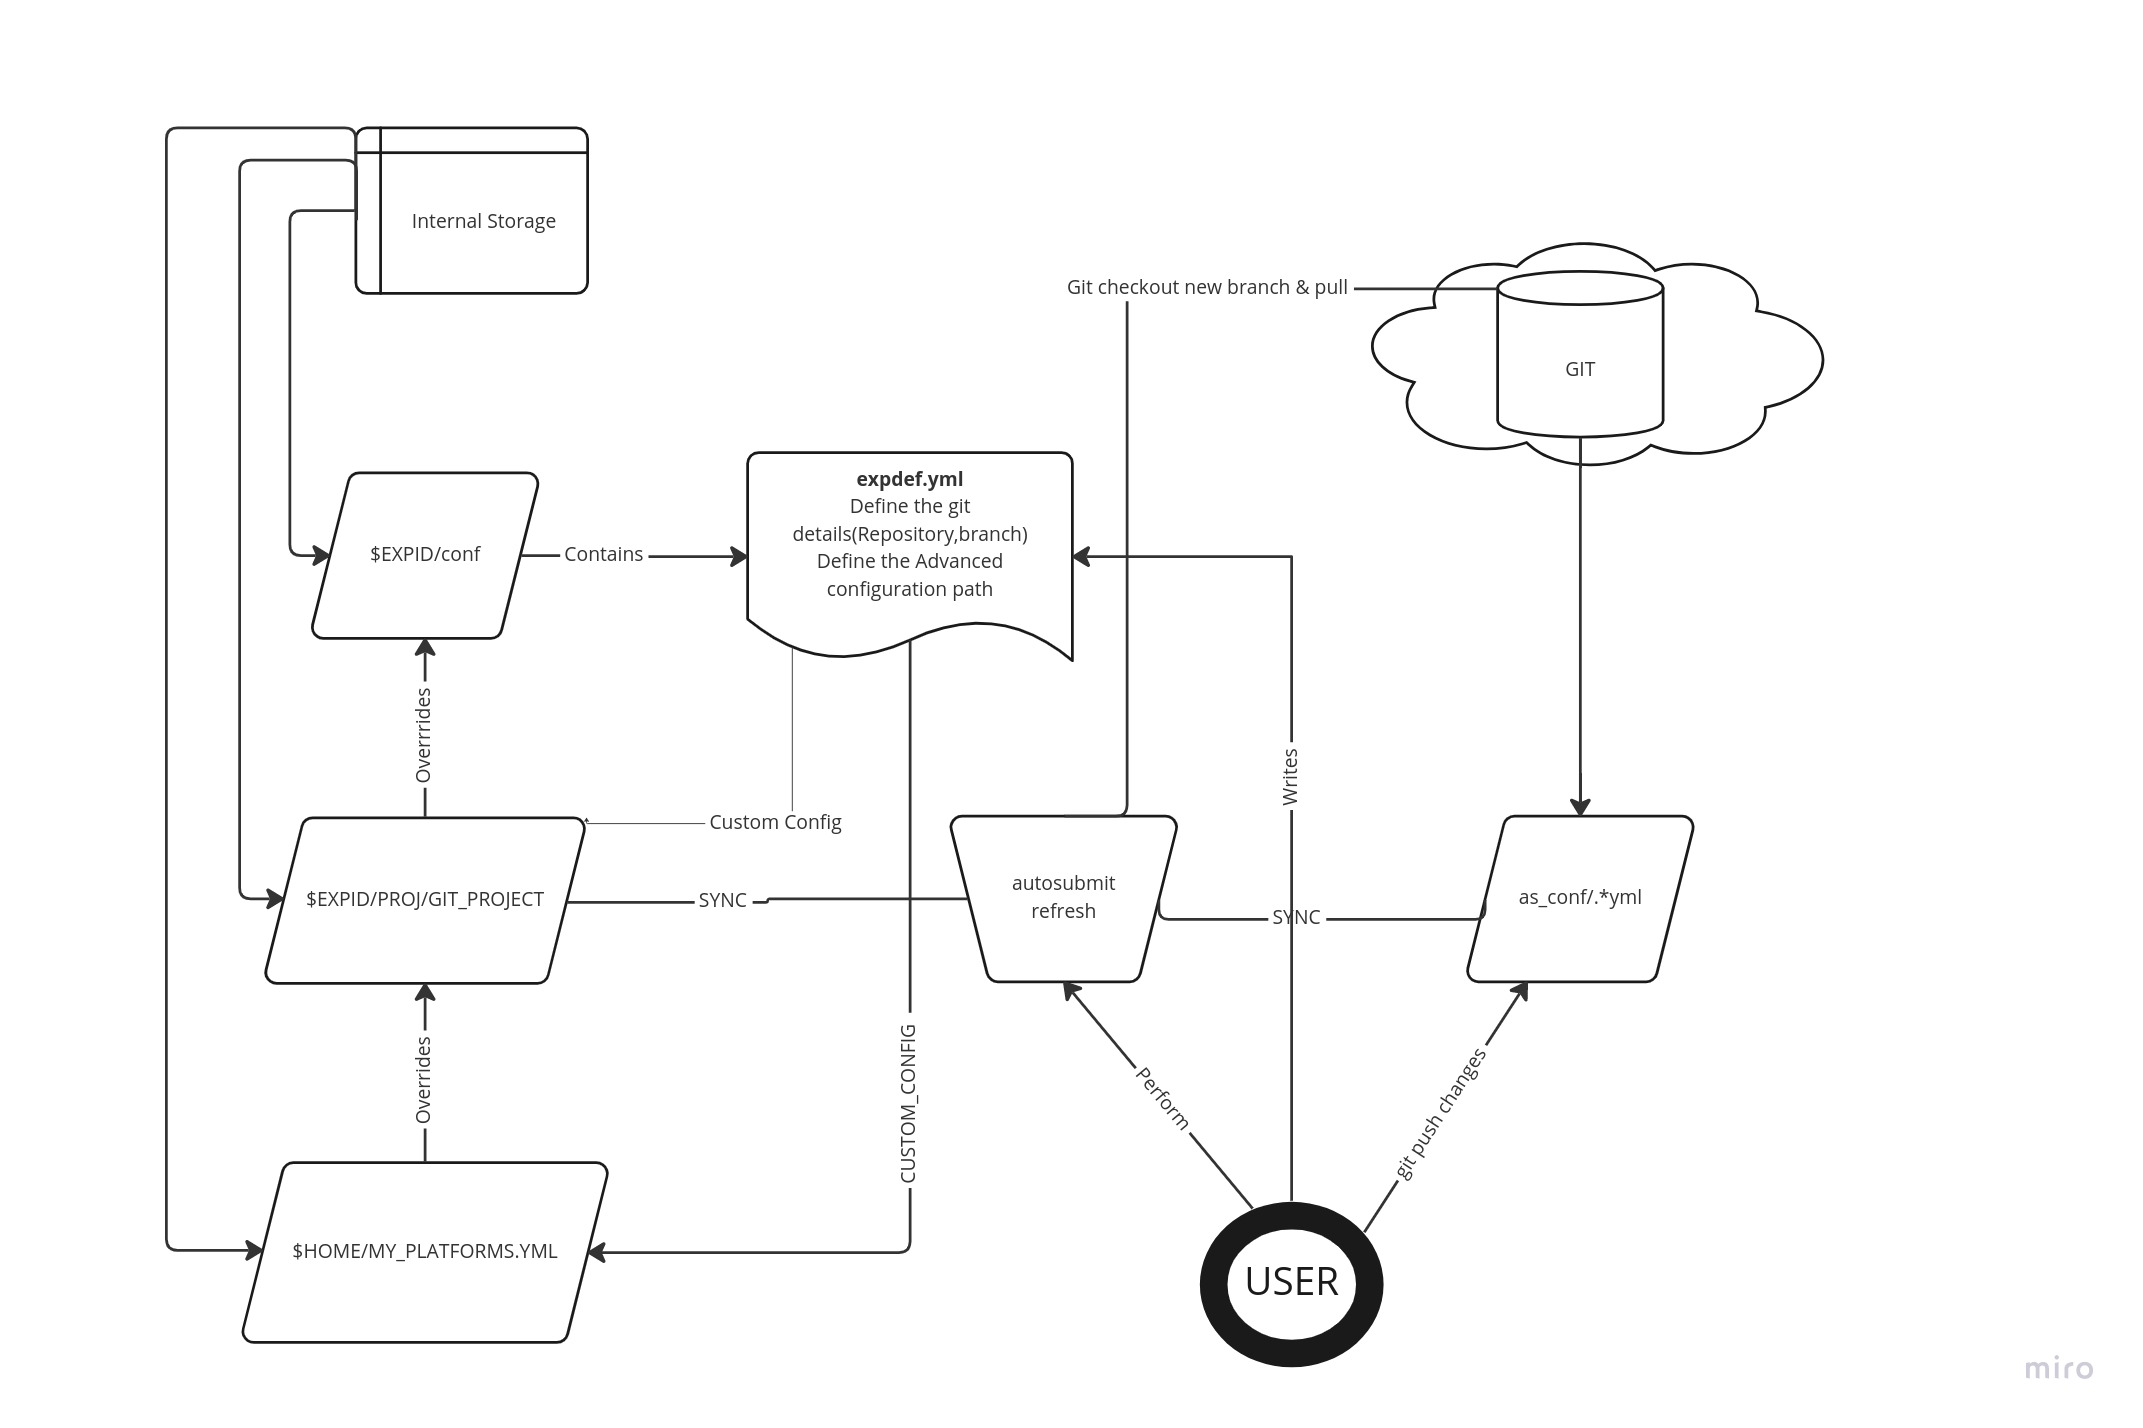
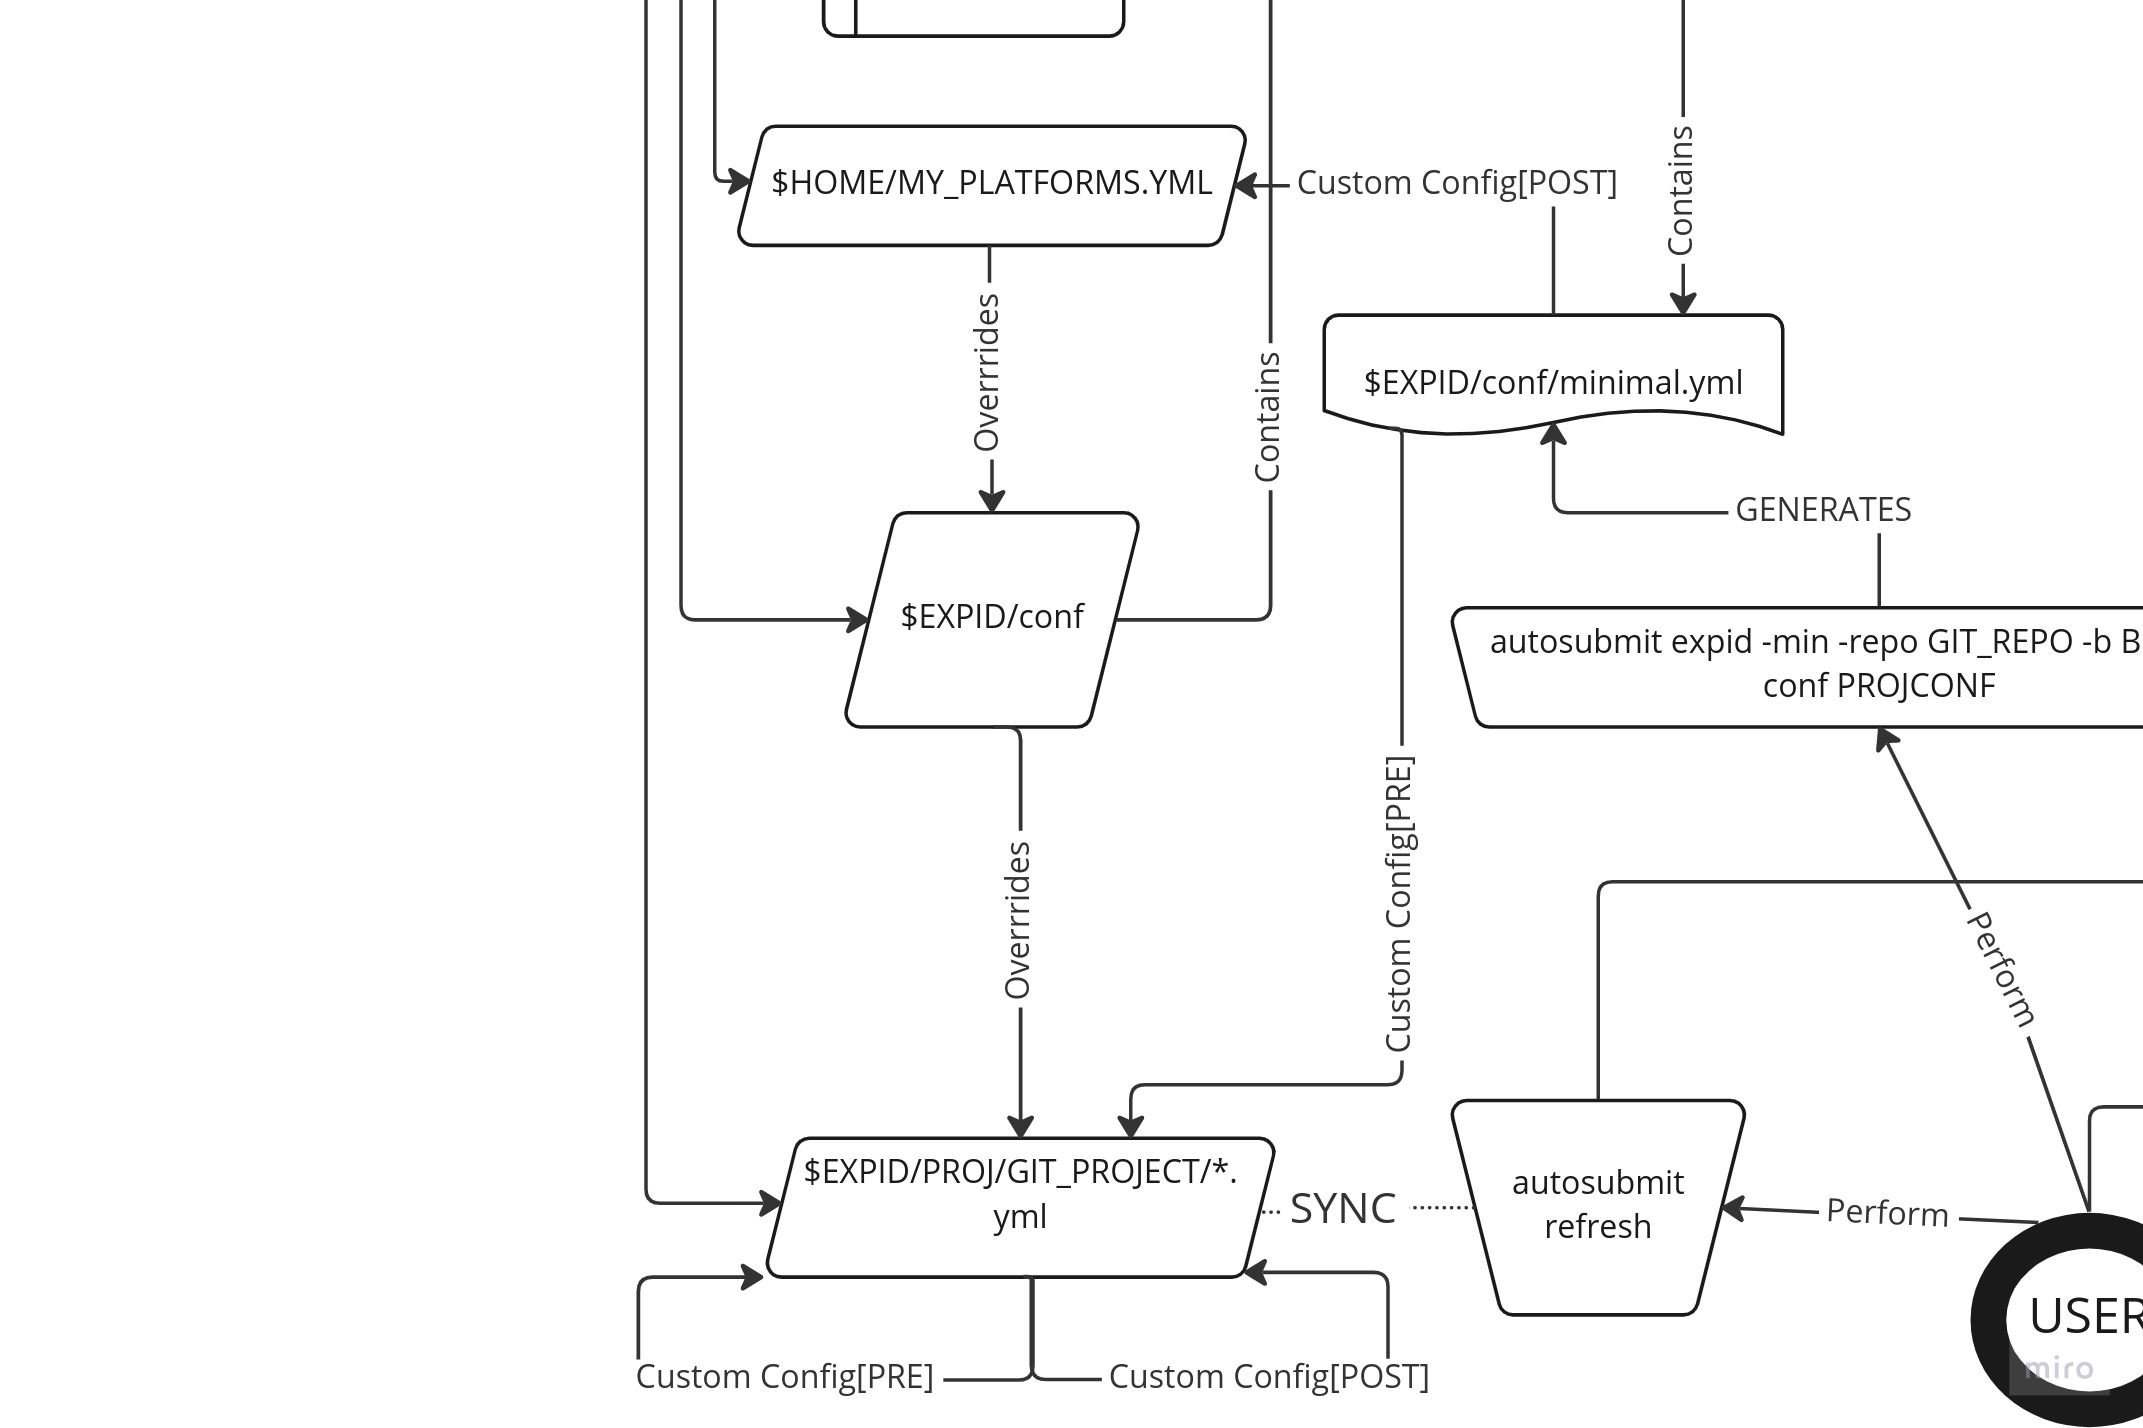
Updated advanced_conf img

diff --git a/autosubmit/autosubmit.py b/autosubmit/autosubmit.py
@@ -1091,7 +1091,7 @@ class Autosubmit:
                     f.write(content)
 
     @staticmethod
-    def expid(description,hpc="", copy_id='', dummy=False,minimal_configuration=False,git_repo="",git_branch="",git_as_conf="",operational=False):
+    def expid(description,hpc="", copy_id='', dummy=False,minimal_configuration=False, git_repo="",git_branch="",git_as_conf="",operational=False):
         """
         Creates a new experiment for given HPC
         description: description of the experiment

diff --git a/docs/source/userguide/create/index.rst b/docs/source/userguide/create/index.rst
@@ -15,7 +15,7 @@ To create a new experiment, just run the command:
 Options:
 ::
 
-    usage: autosubmit expid [-h] [-y COPY | -dm | -min [-repo GIT_PATH ] ] [-p PATH] -H HPC -d DESCRIPTION
+    usage: autosubmit expid [-h] [-y COPY | -dm | -min [ -repo GIT_PATH -b BRANCH -config AS_CONF ] ] [-p PATH] -H HPC -d DESCRIPTION
 
         -h, --help            show this help message and exit
         -y COPY, --copy COPY  makes a copy of the specified experiment
@@ -32,7 +32,6 @@ Options:
         -H HPC, --HPC HPC     specifies the HPC to use for the experiment, default is localhost
         -d DESCRIPTION, --description DESCRIPTION
             sets a description for the experiment to store in the database.
-        -repo GIT_PATH, --git_repo GIT_PATH sets the git_repository
 
 Example:
 ::
